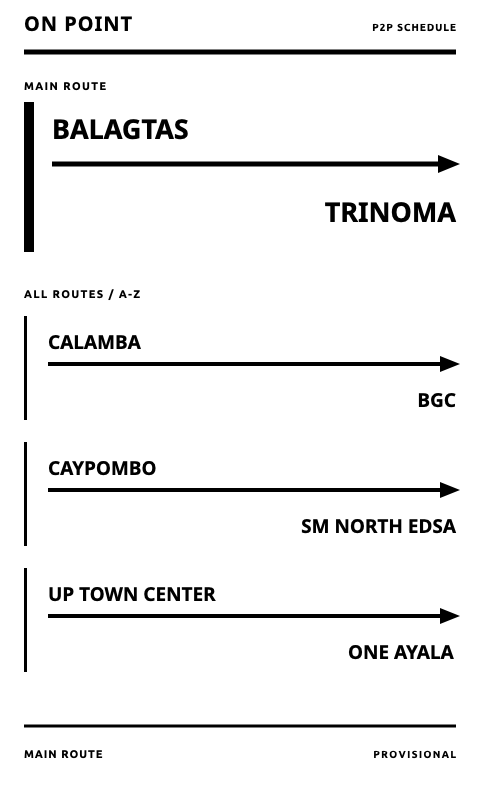
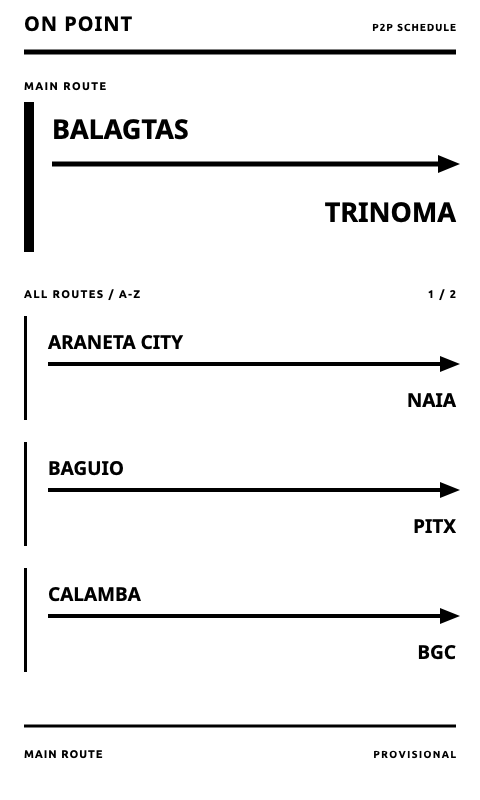
feat: expand On Point route catalog

diff --git a/src/activities/on_point/OnPointScheduleData.cpp b/src/activities/on_point/OnPointScheduleData.cpp
@@ -7,6 +7,7 @@ namespace on_point {
 namespace {
 
 constexpr uint8_t WEEKDAYS = 0b0111110;  // Monday through Friday.
+constexpr uint8_t DAILY = 0b1111111;
 
 // Provisional timetable data. Replace only these arrays and schedule metadata
 // after checking the operators' current published timetables.
@@ -46,6 +47,34 @@ constexpr uint16_t ONE_AYALA_TO_UP_TOWN_CENTER[] = {
     390, 450, 510, 570, 660, 780, 900, 975, 1050, 1125, 1170,
 };
 
+constexpr uint16_t BAGUIO_TO_PITX[] = {
+    60,  120, 180, 240, 300, 360, 420, 480, 540, 600, 660, 690,
+    750, 840, 900, 960, 1020, 1080, 1140, 1200, 1260, 1320, 1380, 1440,
+};
+
+constexpr uint16_t PITX_TO_BAGUIO[] = {
+    60,  120, 180, 240, 300, 360, 420, 480, 540, 600, 660, 690,
+    750, 840, 900, 960, 1020, 1080, 1140, 1200, 1260, 1320, 1380, 1440,
+};
+
+constexpr uint16_t ARANETA_CITY_TO_NAIA[] = {
+    360, 420, 540, 660, 750, 900, 990, 1110, 1260,
+};
+
+constexpr uint16_t NAIA_TO_ARANETA_CITY[] = {
+    330, 450, 540, 660, 810, 870, 990, 1110, 1230,
+};
+
+constexpr uint16_t CLARK_AIRPORT_TO_NAIA_T3[] = {
+    120, 180, 240, 300, 360, 420, 480, 540, 600, 660,
+    720, 780, 840, 900, 960, 1020, 1080, 1140, 1230,
+};
+
+constexpr uint16_t NAIA_T3_TO_CLARK_AIRPORT[] = {
+    0,   120, 240, 330, 420, 480, 540, 600, 660, 720,
+    780, 840, 900, 960, 1020, 1080, 1170, 1230, 1290, 1350,
+};
+
 constexpr ServiceRule BALAGTAS_RULES[] = {
     {WEEKDAYS, {BALAGTAS_TO_TRINOMA, std::size(BALAGTAS_TO_TRINOMA)}},
 };
@@ -76,6 +105,30 @@ constexpr ServiceRule UP_TOWN_CENTER_RULES[] = {
 
 constexpr ServiceRule ONE_AYALA_RULES[] = {
     {WEEKDAYS, {ONE_AYALA_TO_UP_TOWN_CENTER, std::size(ONE_AYALA_TO_UP_TOWN_CENTER)}},
+};
+
+constexpr ServiceRule BAGUIO_RULES[] = {
+    {DAILY, {BAGUIO_TO_PITX, std::size(BAGUIO_TO_PITX)}},
+};
+
+constexpr ServiceRule PITX_RULES[] = {
+    {DAILY, {PITX_TO_BAGUIO, std::size(PITX_TO_BAGUIO)}},
+};
+
+constexpr ServiceRule ARANETA_CITY_RULES[] = {
+    {DAILY, {ARANETA_CITY_TO_NAIA, std::size(ARANETA_CITY_TO_NAIA)}},
+};
+
+constexpr ServiceRule NAIA_RULES[] = {
+    {DAILY, {NAIA_TO_ARANETA_CITY, std::size(NAIA_TO_ARANETA_CITY)}},
+};
+
+constexpr ServiceRule CLARK_AIRPORT_RULES[] = {
+    {DAILY, {CLARK_AIRPORT_TO_NAIA_T3, std::size(CLARK_AIRPORT_TO_NAIA_T3)}},
+};
+
+constexpr ServiceRule NAIA_T3_RULES[] = {
+    {DAILY, {NAIA_T3_TO_CLARK_AIRPORT, std::size(NAIA_T3_TO_CLARK_AIRPORT)}},
 };
 
 constexpr Schedule SCHEDULES[] = {
@@ -183,6 +236,84 @@ constexpr Schedule SCHEDULES[] = {
      0,
      "P2PBus.ph rider directory; verify with DNS before release.",
      SourceStatus::Provisional},
+    {"p2p-baguio-pitx",
+     "Solid North",
+     "BAGUIO",
+     "PITX",
+     "Asia/Manila",
+     8 * 60,
+     {2026, 9, 23},
+     BAGUIO_RULES,
+     std::size(BAGUIO_RULES),
+     nullptr,
+     0,
+     "P2PBus.ph rider directory; verify with Solid North before release.",
+     SourceStatus::Provisional},
+    {"p2p-pitx-baguio",
+     "Solid North",
+     "PITX",
+     "BAGUIO",
+     "Asia/Manila",
+     8 * 60,
+     {2026, 9, 23},
+     PITX_RULES,
+     std::size(PITX_RULES),
+     nullptr,
+     0,
+     "P2PBus.ph rider directory; verify with Solid North before release.",
+     SourceStatus::Provisional},
+    {"p2p-araneta-city-naia",
+     "UBE Express",
+     "ARANETA CITY",
+     "NAIA",
+     "Asia/Manila",
+     8 * 60,
+     {2026, 9, 23},
+     ARANETA_CITY_RULES,
+     std::size(ARANETA_CITY_RULES),
+     nullptr,
+     0,
+     "P2PBus.ph rider directory; verify with UBE Express before release.",
+     SourceStatus::Provisional},
+    {"p2p-naia-araneta-city",
+     "UBE Express",
+     "NAIA",
+     "ARANETA CITY",
+     "Asia/Manila",
+     8 * 60,
+     {2026, 9, 23},
+     NAIA_RULES,
+     std::size(NAIA_RULES),
+     nullptr,
+     0,
+     "P2PBus.ph rider directory; verify with UBE Express before release.",
+     SourceStatus::Provisional},
+    {"p2p-clark-airport-naia-t3",
+     "Genesis",
+     "CLARK AIRPORT",
+     "NAIA T3",
+     "Asia/Manila",
+     8 * 60,
+     {2026, 9, 23},
+     CLARK_AIRPORT_RULES,
+     std::size(CLARK_AIRPORT_RULES),
+     nullptr,
+     0,
+     "P2PBus.ph rider directory; verify with Genesis before release.",
+     SourceStatus::Provisional},
+    {"p2p-naia-t3-clark-airport",
+     "Genesis",
+     "NAIA T3",
+     "CLARK AIRPORT",
+     "Asia/Manila",
+     8 * 60,
+     {2026, 9, 23},
+     NAIA_T3_RULES,
+     std::size(NAIA_T3_RULES),
+     nullptr,
+     0,
+     "P2PBus.ph rider directory; verify with Genesis before release.",
+     SourceStatus::Provisional},
 };
 
 constexpr RoutePair ROUTES[] = {
@@ -190,6 +321,9 @@ constexpr RoutePair ROUTES[] = {
     {"p2p-caypombo-sm-north-edsa", 2, 3, "SANTA MARIA, BULACAN", "QUEZON CITY"},
     {"p2p-calamba-bgc", 4, 5, "LAGUNA", "TAGUIG"},
     {"p2p-up-town-center-one-ayala", 6, 7, "QUEZON CITY", "MAKATI"},
+    {"p2p-baguio-pitx", 8, 9, "BAGUIO", "PARAÑAQUE"},
+    {"p2p-araneta-city-naia", 10, 11, "QUEZON CITY", "PASAY / PARAÑAQUE"},
+    {"p2p-clark-airport-naia-t3", 12, 13, "PAMPANGA", "PASAY"},
 };
 
 static_assert(std::size(SCHEDULES) == SCHEDULE_COUNT);

diff --git a/test/on_point_schedule/OnPointScheduleTest.cpp b/test/on_point_schedule/OnPointScheduleTest.cpp
@@ -40,7 +40,7 @@ TEST(OnPointScheduleData, RoutePairGroupsBothDirections) {
 }
 
 TEST(OnPointScheduleData, AdditionalRoutePairsUseSpecificEndpointsAndAreas) {
-  ASSERT_EQ(on_point::ROUTE_COUNT, 4u);
+  ASSERT_EQ(on_point::ROUTE_COUNT, 7u);
   ASSERT_EQ(on_point::routeCount(), on_point::ROUTE_COUNT);
 
   const on_point::RoutePair& caypombo = on_point::routeAt(1);
@@ -61,6 +61,27 @@ TEST(OnPointScheduleData, AdditionalRoutePairsUseSpecificEndpointsAndAreas) {
   EXPECT_STREQ(on_point::scheduleForRoute(3, false).destination, "ONE AYALA");
   EXPECT_STREQ(upTownCenter.originArea, "QUEZON CITY");
   EXPECT_STREQ(upTownCenter.destinationArea, "MAKATI");
+
+  const on_point::RoutePair& baguio = on_point::routeAt(4);
+  EXPECT_STREQ(on_point::scheduleForRoute(4, false).origin, "BAGUIO");
+  EXPECT_STREQ(on_point::scheduleForRoute(4, false).destination, "PITX");
+  EXPECT_STREQ(on_point::scheduleForRoute(4, true).origin, "PITX");
+  EXPECT_STREQ(baguio.originArea, "BAGUIO");
+  EXPECT_STREQ(baguio.destinationArea, "PARAÑAQUE");
+
+  const on_point::RoutePair& aranetaCity = on_point::routeAt(5);
+  EXPECT_STREQ(on_point::scheduleForRoute(5, false).origin, "ARANETA CITY");
+  EXPECT_STREQ(on_point::scheduleForRoute(5, false).destination, "NAIA");
+  EXPECT_STREQ(on_point::scheduleForRoute(5, true).origin, "NAIA");
+  EXPECT_STREQ(aranetaCity.originArea, "QUEZON CITY");
+  EXPECT_STREQ(aranetaCity.destinationArea, "PASAY / PARAÑAQUE");
+
+  const on_point::RoutePair& clarkAirport = on_point::routeAt(6);
+  EXPECT_STREQ(on_point::scheduleForRoute(6, false).origin, "CLARK AIRPORT");
+  EXPECT_STREQ(on_point::scheduleForRoute(6, false).destination, "NAIA T3");
+  EXPECT_STREQ(on_point::scheduleForRoute(6, true).origin, "NAIA T3");
+  EXPECT_STREQ(clarkAirport.originArea, "PAMPANGA");
+  EXPECT_STREQ(clarkAirport.destinationArea, "PASAY");
 }
 
 TEST(OnPointScheduleData, AdditionalPublishedTimetablesRemainIndependent) {
@@ -89,12 +110,53 @@ TEST(OnPointScheduleData, AdditionalPublishedTimetablesRemainIndependent) {
   EXPECT_EQ(upTownCenter.last.local.hour, 18);
 }
 
+TEST(OnPointScheduleData, NewDailyRoutesUseTheirIndependentPublishedTimetables) {
+  const DepartureState baguio =
+      on_point::getDepartureState(on_point::scheduleForRoute(4, false), manilaTime(2026, 9, 26, 23, 30));
+  ASSERT_TRUE(baguio.next.valid);
+  EXPECT_EQ(baguio.next.local.day, 27);
+  EXPECT_EQ(baguio.next.local.hour, 0);
+  EXPECT_EQ(baguio.next.local.minute, 0);
+  EXPECT_EQ(baguio.next.serviceMinute, 1440);
+  EXPECT_EQ(baguio.minutesToNext, 30);
+  EXPECT_TRUE(baguio.isLastDeparture);
+
+  const DepartureState aranetaCity =
+      on_point::getDepartureState(on_point::scheduleForRoute(5, false), manilaTime(2026, 9, 26, 12, 0));
+  ASSERT_TRUE(aranetaCity.next.valid);
+  EXPECT_EQ(aranetaCity.next.local.hour, 12);
+  EXPECT_EQ(aranetaCity.next.local.minute, 30);
+  EXPECT_EQ(aranetaCity.minutesToNext, 30);
+  EXPECT_EQ(aranetaCity.last.local.hour, 21);
+
+  const DepartureState clarkAirport =
+      on_point::getDepartureState(on_point::scheduleForRoute(6, false), manilaTime(2026, 9, 27, 19, 15));
+  ASSERT_TRUE(clarkAirport.next.valid);
+  EXPECT_EQ(clarkAirport.next.local.hour, 20);
+  EXPECT_EQ(clarkAirport.next.local.minute, 30);
+  EXPECT_EQ(clarkAirport.minutesToNext, 75);
+  EXPECT_TRUE(clarkAirport.isLastDeparture);
+
+  const DepartureState naiaT3 =
+      on_point::getDepartureState(on_point::scheduleForRoute(6, true), manilaTime(2026, 9, 27, 0, 0));
+  ASSERT_TRUE(naiaT3.next.valid);
+  EXPECT_EQ(naiaT3.next.local.hour, 0);
+  EXPECT_EQ(naiaT3.next.local.minute, 0);
+  EXPECT_EQ(naiaT3.minutesToNext, 0);
+  EXPECT_FALSE(naiaT3.isLastDeparture);
+}
+
 TEST(OnPointScheduleData, RouteCatalogHasStableIdsAndAlphabeticalPresentationOrder) {
   EXPECT_EQ(on_point::routeIndexForId("p2p-balagtas-trinoma"), 0u);
   EXPECT_EQ(on_point::routeIndexForId("p2p-caypombo-sm-north-edsa"), 1u);
+  EXPECT_EQ(on_point::routeIndexForId("p2p-baguio-pitx"), 4u);
+  EXPECT_EQ(on_point::routeIndexForId("p2p-araneta-city-naia"), 5u);
+  EXPECT_EQ(on_point::routeIndexForId("p2p-clark-airport-naia-t3"), 6u);
   EXPECT_EQ(on_point::routeIndexForId("missing-route"), 0u);
 
-  const char* expectedOrigins[] = {"BALAGTAS", "CALAMBA", "CAYPOMBO", "UP TOWN CENTER"};
+  const char* expectedOrigins[] = {
+      "ARANETA CITY", "BAGUIO", "BALAGTAS", "CALAMBA", "CAYPOMBO", "CLARK AIRPORT", "UP TOWN CENTER",
+  };
   for (size_t position = 0; position < on_point::ROUTE_COUNT; ++position) {
     const size_t routeIndex = on_point::routeIndexInAlphabeticalOrder(position);
     EXPECT_STREQ(on_point::scheduleForRoute(routeIndex, false).origin, expectedOrigins[position]);

diff --git a/design/on-point-visual-pass/render_previews.py b/design/on-point-visual-pass/render_previews.py
@@ -641,13 +641,19 @@ def final_open_poster(state: State) -> str:
     return "\n".join(pieces)
 
 
-def route_list_preview(selected_route: str = "BALAGTAS") -> str:
+def route_list_preview(selected_route: str = "BALAGTAS", page: int = 1) -> str:
     """Render the production main-route hierarchy and evenly spaced route list."""
-    routes = [
+    all_routes = [
+        ("ARANETA CITY", "NAIA"),
+        ("BAGUIO", "PITX"),
         ("CALAMBA", "BGC"),
         ("CAYPOMBO", "SM NORTH EDSA"),
+        ("CLARK AIRPORT", "NAIA T3"),
         ("UP TOWN CENTER", "ONE AYALA"),
     ]
+    page_count = (len(all_routes) + 2) // 3
+    page = max(1, min(page, page_count))
+    routes = all_routes[(page - 1) * 3 : page * 3]
     pieces = [pass2_header(), text("MAIN ROUTE", 24, 90, 11, weight=700, spacing=1.4, utility=True)]
 
     main_selected = selected_route == "BALAGTAS"
@@ -659,6 +665,7 @@ def route_list_preview(selected_route: str = "BALAGTAS") -> str:
             '<polygon points="438,155 460,164 438,173" fill="#000"/>',
             text("TRINOMA", 456, 222, 27, weight=700, anchor="end"),
             text("ALL ROUTES / A-Z", 24, 298, 11, weight=700, spacing=1.4, utility=True),
+            text(f"{page} / {page_count}", 456, 298, 11, weight=700, anchor="end", spacing=1.4, utility=True),
         ]
     )
 
@@ -792,7 +799,9 @@ def main() -> None:
     )
     write_svg("final-contact-required-states", final_sheet, final_width, final_height)
     write_svg("route-list-main-selected", route_list_preview())
-    write_svg("route-list-secondary-selected", route_list_preview("CAYPOMBO"))
+    write_svg("route-list-secondary-selected", route_list_preview("ARANETA CITY"))
+    write_svg("route-list-page-1", route_list_preview("ARANETA CITY", page=1))
+    write_svg("route-list-page-2", route_list_preview("CAYPOMBO", page=2))
     print(f"Generated {len(list(SVG_DIR.glob('*.svg')))} SVG previews in {SVG_DIR}")
 
 

diff --git a/src/activities/on_point/OnPointActivity.cpp b/src/activities/on_point/OnPointActivity.cpp
@@ -229,13 +229,18 @@ void OnPointActivity::loop() {
       return;
     }
     if (mappedInput.wasPressed(Button::NavNext)) {
-      const size_t next = (selectedDisplayIndex() + 1) % on_point::routeCount();
+      const size_t routeCount = on_point::routeCount();
+      if (routeCount <= 1) return;
+      const size_t selected = selectedDisplayIndex();
+      const size_t next = selected == 0 || selected + 1 >= routeCount ? 1 : selected + 1;
       selectDisplayIndex(next);
       return;
     }
     if (mappedInput.wasPressed(Button::NavPrevious)) {
+      const size_t routeCount = on_point::routeCount();
+      if (routeCount <= 1) return;
       const size_t selected = selectedDisplayIndex();
-      selectDisplayIndex(selected == 0 ? on_point::routeCount() - 1 : selected - 1);
+      selectDisplayIndex(selected <= 1 ? routeCount - 1 : selected - 1);
       return;
     }
     if (mappedInput.wasReleased(Button::Confirm)) {

diff --git a/src/activities/on_point/OnPointScheduleData.h b/src/activities/on_point/OnPointScheduleData.h
@@ -6,8 +6,8 @@
 
 namespace on_point {
 
-constexpr size_t SCHEDULE_COUNT = 8;
-constexpr size_t ROUTE_COUNT = 4;
+constexpr size_t SCHEDULE_COUNT = 14;
+constexpr size_t ROUTE_COUNT = 7;
 
 struct RoutePair {
   const char* routeId = nullptr;
